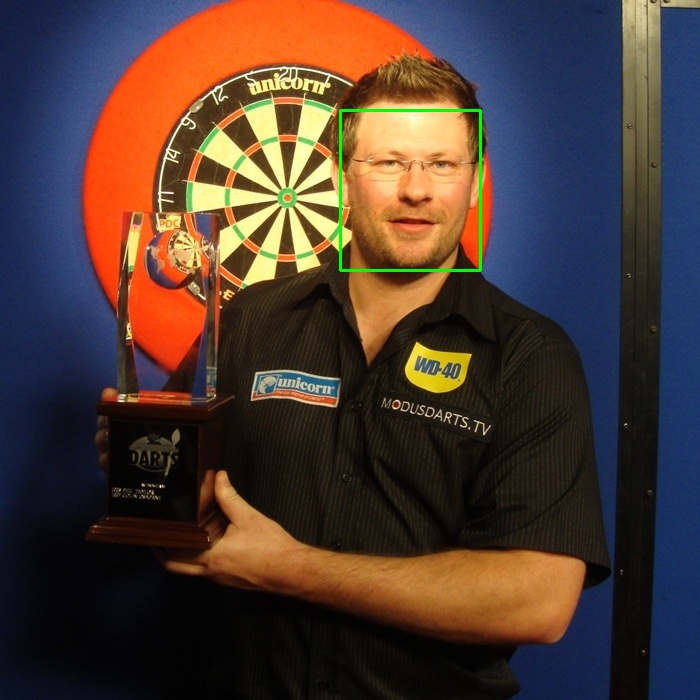
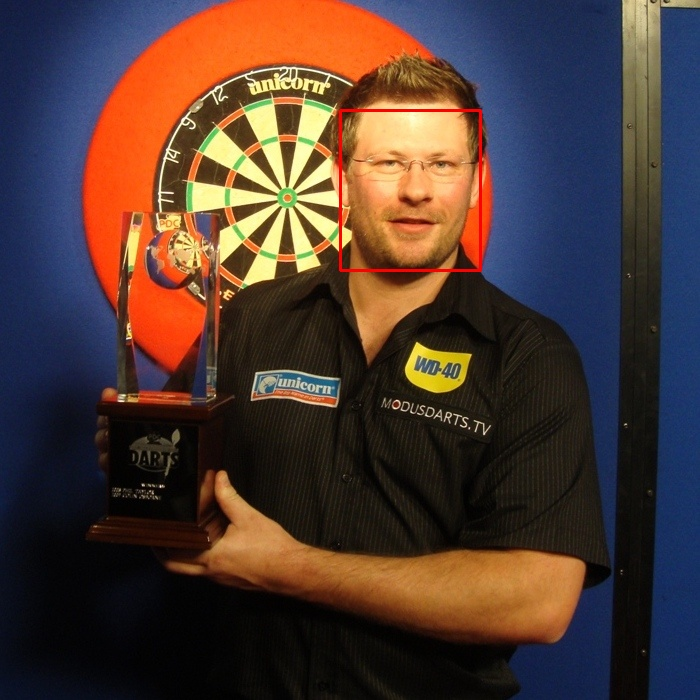
F1 score implemented - subtask 1 COMPLETE

Changed region(s): [[0.48, 0.15, 0.69, 0.39]]

diff --git a/face.cpp b/face.cpp
@@ -13,6 +13,7 @@
 #include "opencv2/highgui/highgui.hpp"
 #include "opencv2/imgproc/imgproc.hpp"
 #include <iostream>
+#include <string>
 #include <iomanip>
 #include <fstream>
 #include <sstream>
@@ -22,18 +23,16 @@
 using namespace std;
 using namespace cv;
 
-
-
 /** Function Headers */
 void detectAndDisplay( Mat frame );
-void F1Test( int facesDetected, const char* imgName );
+float F1Test( int facesDetected, const char* imgName, Mat frame );
 
 /** Global variables */
 String cascade_name = "frontalface.xml";
 CascadeClassifier cascade;
-std::vector<Rect> faces;
+std::vector<Rect> detectedFaces;
+std::vector<Rect> trueFaces;
 
-/** @function main */
 int main( int argc, const char** argv )
 {
 
@@ -49,7 +48,7 @@ int main( int argc, const char** argv )
 	detectAndDisplay( frame );
 
 	// ADDED: 4. Perform F1 test
-	F1Test(faces.size(), imgName);
+	float f1score = F1Test(detectedFaces.size(), imgName, frame);
 
 	// 5. Save Result Image
 	imwrite( "detected.jpg", frame );
@@ -57,9 +56,10 @@ int main( int argc, const char** argv )
 	return 0;
 }
 
-void F1Test( int facesDetected, const char* imgName ){
-	int truePositives = 0;
+float F1Test( int facesDetected, const char* imgName, Mat frame ){
+	int validFaces = 0;
 
+	// Manipulate string to get correct CSV file name
 	string fileExtension = "points.csv";
 	string current_line;
 
@@ -70,27 +70,74 @@ void F1Test( int facesDetected, const char* imgName ){
 		imgNameString.replace(i, fileExtension.length(), fileExtension);
   }
 
-	std::cout << imgNameString << " \n";
-
 	const char *c = imgNameString.c_str();
-
 	ifstream inputFile(c);
 
+	// Go through CSV file line by line
 	while(getline(inputFile, current_line)){
-   ++truePositives;
+
+		// Array of values for each rectangle
+		std::vector<int> values;
+
+		std::stringstream convertor(current_line);
+		std::string token; // somewhere to put the comma separated value
+
+		// Insert each value into values array
+		while (std::getline(convertor, token, ',')) {
+			values.push_back(std::atoi(token.c_str()));
+		}
+
+		// Populate array with ground truth rectangles
+		trueFaces.push_back(Rect(values[0], values[1], values[2], values[3]));
 	}
 
-	std::cout << truePositives << "\n";
+	int truePositives = 0;
+	int falsePositives = 0;
 
-	// float F1Test =
-	// Use rectangle intersection Function
+	// Compare each detected face to every ground truth face
+	for (int i = 0; i < detectedFaces.size(); i++) {
+		for (int j = 0; j < trueFaces.size(); j++) {
+			// Get intersection and check matching area percentage
+			Rect intersection = detectedFaces[i] & trueFaces[j];
+			float intersectionArea = intersection.area();
+
+			// If there is an intersection, check percentage of intersection area
+			// to detection area
+			if (intersectionArea > 0) {
+				float matchPercentage = (intersectionArea / trueFaces[j].area()) * 100;
+
+				// If threshold reached, increment true positives
+				if (matchPercentage > 60){
+					truePositives++;
+					break;
+				}
+				if (j == (trueFaces.size() - 1)) falsePositives++;
+			}
+			// If loop reaches end without reaching intersection threshold, it is
+			// a false negative
+			else {
+				if (j == (trueFaces.size() - 1)) falsePositives++;
+			}
+		}
+	}
+
+	std::cout << "true positives: " << truePositives << ", false positives: " << falsePositives << "\n";
+
+	// Time for F1 test
 	// Precision = TP / (TP + FP)
-	// Recall = TPR
+	// Recall = TPR (True Positive Rate)
 	// F1 = 2((PRE * REC)/(PRE + REC))
 
+	float precision = (float)truePositives / ((float)truePositives + (float)falsePositives);
+	float recall = (float)truePositives / (float)trueFaces.size();
+
+	float f1 = 2 * ((precision * recall)/(precision + recall));
+
+	std::cout << "f1 score: " << f1 << "\n";
+
+	return f1;
 }
 
-/** @function detectAndDisplay */
 void detectAndDisplay( Mat frame )
 {
 	Mat frame_gray;
@@ -100,15 +147,15 @@ void detectAndDisplay( Mat frame )
 	equalizeHist( frame_gray, frame_gray );
 
 	// 2. Perform Viola-Jones Object Detection
-	cascade.detectMultiScale( frame_gray, faces, 1.1, 1, 0|CV_HAAR_SCALE_IMAGE, Size(50, 50), Size(500,500) );
+	cascade.detectMultiScale( frame_gray, detectedFaces, 1.1, 1, 0|CV_HAAR_SCALE_IMAGE, Size(50, 50), Size(500,500) );
 
-       // 3. Print number of Faces found
-	std::cout << "faces detected: " << faces.size() << std::endl;
+  // 3. Print number of Faces found
+	std::cout << "faces detected: " << detectedFaces.size() << std::endl;
 
-       // 4. Draw box around faces found
-	for( int i = 0; i < faces.size(); i++ )
+  // 4. Draw box around faces found
+	for( int i = 0; i < detectedFaces.size(); i++ )
 	{
-		rectangle(frame, Point(faces[i].x, faces[i].y), Point(faces[i].x + faces[i].width, faces[i].y + faces[i].height), Scalar( 0, 255, 0 ), 2);
+		rectangle(frame, Point(detectedFaces[i].x, detectedFaces[i].y), Point(detectedFaces[i].x + detectedFaces[i].width, detectedFaces[i].y + detectedFaces[i].height), Scalar( 0, 255, 0 ), 2);
 	}
 
 }

diff --git a/draw.cpp b/draw.cpp
@@ -14,18 +14,8 @@ int main(int argc, const char** argv) {
 
   Mat frame = imread(argv[1], CV_LOAD_IMAGE_COLOR);
 
-  rectangle(frame, Point(65, 135), Point(120, 210), Scalar( 0, 0, 255 ), 2);
-  rectangle(frame, Point(250, 160), Point(310, 225), Scalar( 0, 0, 255 ), 2);
-  rectangle(frame, Point(375, 185), Point(440, 245), Scalar( 0, 0, 255 ), 2);
-  rectangle(frame, Point(515, 180), Point(575, 245), Scalar( 0, 0, 255 ), 2);
-  rectangle(frame, Point(645, 185), Point(705, 245), Scalar( 0, 0, 255 ), 2);
-
-  rectangle(frame, Point(55, 250), Point(115, 315), Scalar( 0, 0, 255 ), 2);
-  rectangle(frame, Point(195, 215), Point(250, 285), Scalar( 0, 0, 255 ), 2);
-  rectangle(frame, Point(285, 240), Point(350, 310), Scalar( 0, 0, 255 ), 2);
-  rectangle(frame, Point(430, 235), Point(485, 305), Scalar( 0, 0, 255 ), 2);
-  rectangle(frame, Point(560, 250), Point(620, 315), Scalar( 0, 0, 255 ), 2);
-  rectangle(frame, Point(675, 250), Point(735, 315), Scalar( 0, 0, 255 ), 2);
+  rectangle(frame, Point(460, 220), Point(555, 320), Scalar( 0, 0, 255 ), 2);
+  rectangle(frame, Point(730, 190), Point(830, 295), Scalar( 0, 0, 255 ), 2);
 
   imwrite( "annotated.jpg", frame );
 
